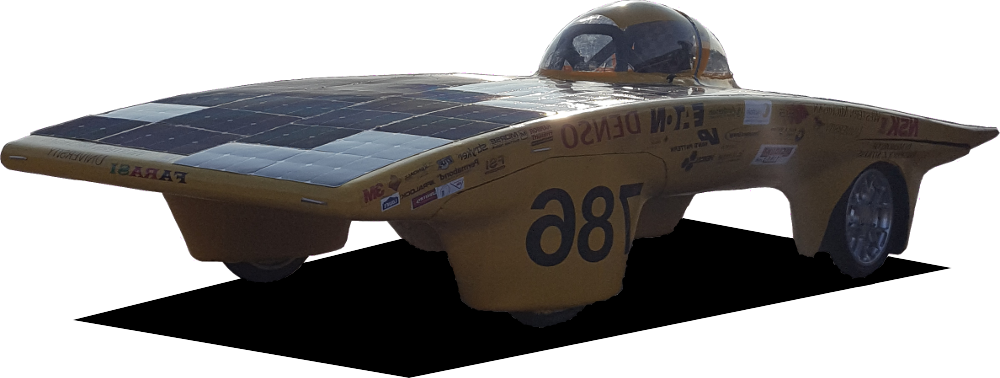
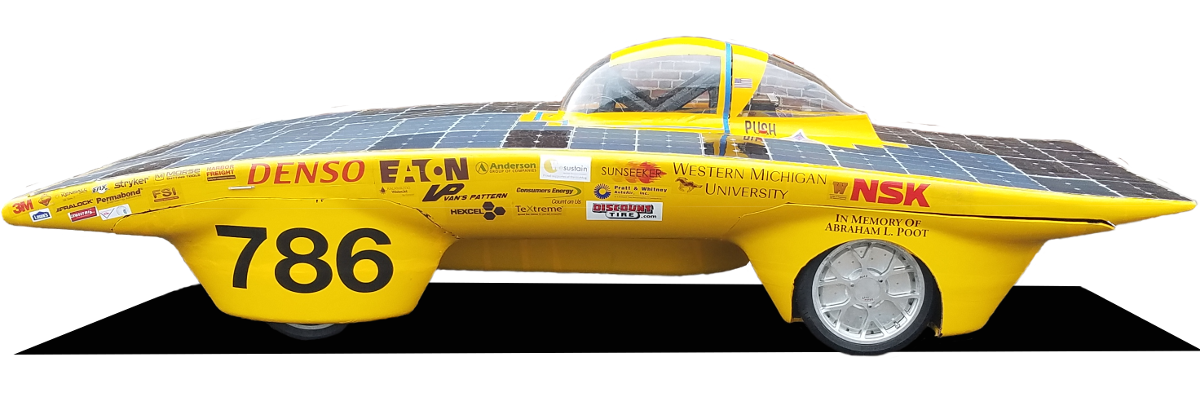
made changes to our-cars and our-cars/2016

diff --git a/our-cars/index.html b/our-cars/index.html
@@ -8,8 +8,8 @@ intro: Sunseeker has a rich history of building solar cars. Here you can find in
   <div class="cars__car">
     <div class="car__picture car__picture--sixteenCar"></div>
     <div class="car__description">
-      <h2>Sunseeker 2016</h2>
-      <p>The 2016 car marks the return of both the number 786 and a four-wheeled layout. This vehicle is currently being manufactured by the team; we intend for its inaugural event to be the 2016 American Solar Challenge.</p>
+      <h2>Farasi</h2>
+      <p>The 2016 car marks the return of both the number 786 and a four-wheeled layout. This vehicle has competed in two Formula Sun Grand Prix races and has achieved one whole lap. We intend to have it fully functioning within the year of 2017.</p>
       <p><a href="{{ "/our-cars/2016" | prepend: site.baseurl }}">Learn More</a></p>
     </div>
     <div class="clearBoth"></div>

diff --git a/our-cars/2016/index.html b/our-cars/2016/index.html
@@ -3,11 +3,11 @@ layout: default
 pageid: cars
 title: Sunseeker 2016
 ---
-<div class="car__bigPicture car__bigPicture--sixteenCar">Sunseeker 2016 design renderings.</div>
+<div class="car__bigPicture car__bigPicture--sixteenCar">Farasi (2016 build)</div>
 
 <div class="wrapper">
-  <h2>Sunseeker 2016</h2>
-  <p>After a long run with the 2010 car, we have finally begun the process of manufacturing our next solar car. This generation of Sunseeker will be lighter and more efficient than the previous car; you can see the pre-production specifications below.</p>
+  <h2>Farasi</h2>
+  <p>After a long run with the 2010 car, we have moved on to the next generation. You can find the 2016 car build specifications below.</p>
 
   <div class="car__specs sideBySideMessages">
     <div class="message">

diff --git a/_sass/pages/cars.scss b/_sass/pages/cars.scss
@@ -1,6 +1,6 @@
 .car__picture {
     @extend .img;
-    
+
     background-size: contain;
     background-position: center-center;
     width: 100%;
@@ -29,9 +29,9 @@
     height: 200px;
     margin: -1 * $standard-padding 0 $standard-margin;
 }
-    
+
 .car__bigPicture--sixteenCar {
-    background-image: url('../images/cars/banners/2016.jpg');
+    background-image: url('../images/cars/banners/2016.png');
 }
 
 .car__bigPicture--tenCar {
@@ -87,13 +87,13 @@
     .car__picture {
         width: 25%;
     }
-    
+
     .car__description {
         padding: 0 0 0 $standard-margin;
         width: 75%;
         box-sizing: border-box;
     }
-    
+
     .car__bigPicture {
         height: 500px;
     }
@@ -103,4 +103,4 @@
     .car__bigPicture {
         height: 700px;
     }
-}       
+}
